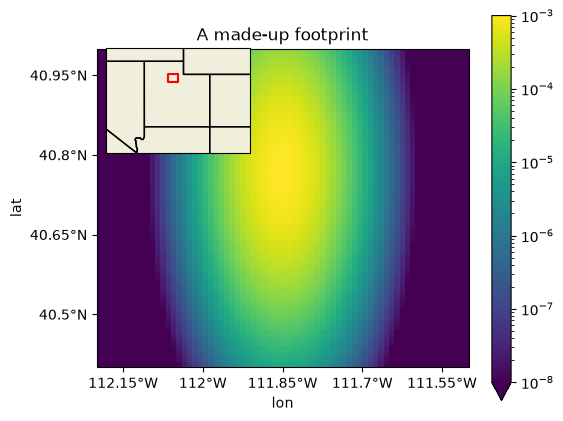
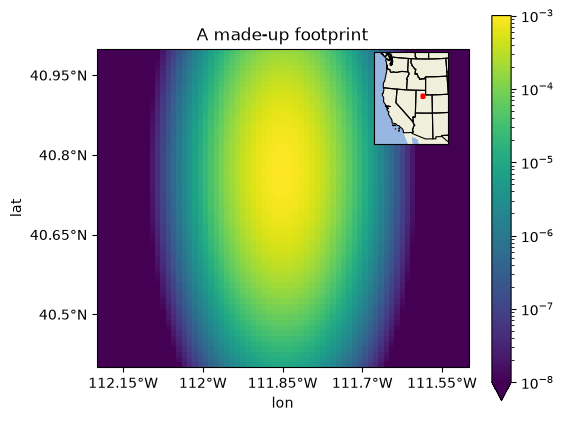
feat(geo)!: add_locator_map takes the main map's axes and places the inset by bounds (#218)
add_locator_map(ax, main_extent, main_extent_crs, ...) now adds an inset of the
main axes (Axes.inset_axes), placed by `bounds` as fractions of those axes. Its
defaults are the western United States in the upper right corner: locator_extent
(-125, -105, 30, 50), bounds (0.7, 0.7, 0.29, 0.29), an Albers equal-area
locator_crs centered at 111 W, color "red", linewidth 2, zorder 8. Land, ocean
and states are Natural Earth 50 m. The main extent is still an outline.

BREAKING CHANGE: add_locator_map takes the main map's axes, not the figure, and
`locator_rect` (figure fractions) is now `bounds` (fractions of the axes). A call
add_locator_map(fig, main_extent=e, main_extent_crs=c, locator_rect=r,
locator_extent=x, locator_crs=p, color=k, linewidth=w) becomes
add_locator_map(ax, e, c, locator_extent=x, bounds=b, locator_crs=p, color=k,
linewidth=w), with b the rectangle r as fractions of ax: ((r[0] - pos.x0) /
pos.width, (r[1] - pos.y0) / pos.height, r[2] / pos.width, r[3] / pos.height)
for pos = ax.get_position(). The locator map's features are 50 m, not 110 m.

Changed region(s): [[0.1812, 0.0926, 0.4529, 0.3705], [0.6643, 0.1235, 0.8153, 0.3705]]

diff --git a/tests/geo/test_geo.py b/tests/geo/test_geo.py
@@ -1132,23 +1132,127 @@ class TestPlotting:
         assert -115 < x0 <= -113 and -110 <= x1 < -108
         assert 39 < y0 <= 41 and 43 <= y1 < 45
 
-    def test_add_locator_map_outlines_box(self):
+
+class TestAddLocatorMap:
+    # The locator map is an inset of the main axes. Nothing here draws, so
+    # cartopy downloads no Natural Earth file.
+
+    MAIN_EXTENT = [-113, -110, 39, 42]
+
+    @pytest.fixture(autouse=True)
+    def _agg(self):
+        import matplotlib
+        import matplotlib.pyplot as plt
+
+        matplotlib.use("Agg")
+        yield
+        plt.close("all")
+
+    @pytest.fixture
+    def main_ax(self):
+        # A main map at a known place in the figure, with no aspect adjustment,
+        # so its position in the figure is the one given here
         import cartopy.crs as ccrs
         import matplotlib.pyplot as plt
 
         fig = plt.figure()
-        ax = geo.add_locator_map(
-            fig,
-            main_extent=[-113, -110, 39, 42],
-            main_extent_crs=ccrs.PlateCarree(),
-            locator_rect=(0.0, 0.0, 0.3, 0.3),
-            locator_extent=[-125, -100, 30, 50],
-            locator_crs=ccrs.PlateCarree(),
-            color="red",
-            linewidth=2,
+        ax = fig.add_axes((0.1, 0.2, 0.5, 0.4), projection=ccrs.PlateCarree())
+        ax.set_aspect("auto")
+        return ax
+
+    @staticmethod
+    def _bounds(inset):
+        # Where the inset sits, in figure fractions
+        return inset.get_axes_locator()(inset, None).bounds
+
+    def test_is_an_inset_of_the_axes_it_is_given(self, main_ax):
+        import cartopy.crs as ccrs
+
+        inset = geo.add_locator_map(main_ax, self.MAIN_EXTENT, ccrs.PlateCarree())
+        assert inset in main_ax.child_axes
+        assert inset.get_figure() is main_ax.get_figure()
+
+    def test_defaults_are_the_western_us_in_the_upper_right(self, main_ax):
+        import cartopy.crs as ccrs
+
+        inset = geo.add_locator_map(main_ax, self.MAIN_EXTENT, ccrs.PlateCarree())
+        # bounds (0.7, 0.7, 0.29, 0.29) of an axes at (0.1, 0.2) of size (0.5, 0.4)
+        np.testing.assert_allclose(
+            self._bounds(inset), (0.45, 0.48, 0.145, 0.116), atol=1e-12
         )
-        box_artist = ax.collections[-1]
-        # An outline: red edge, no fill
-        np.testing.assert_allclose(box_artist.get_edgecolor(), [[1, 0, 0, 1]])
+        assert inset.get_zorder() == 8
+        assert isinstance(inset.projection, ccrs.AlbersEqualArea)
+        assert inset.projection.proj4_params["lon_0"] == -111
+        x0, x1, y0, y1 = inset.get_extent(crs=ccrs.PlateCarree())
+        # The Albers view encloses the lon/lat box (-125, -105, 30, 50), and not by much
+        assert -129.5 < x0 <= -125 and -105 <= x1 < -103
+        assert 29 < y0 <= 30 and 50 <= y1 < 51
+
+    def test_bounds_are_fractions_of_the_main_axes(self, main_ax):
+        import cartopy.crs as ccrs
+
+        inset = geo.add_locator_map(
+            main_ax, self.MAIN_EXTENT, ccrs.PlateCarree(), bounds=(0.0, 0.5, 0.25, 0.4)
+        )
+        np.testing.assert_allclose(
+            self._bounds(inset), (0.1, 0.4, 0.125, 0.16), atol=1e-12
+        )
+        # ... so moving the main axes moves the inset with it
+        main_ax.set_position((0.3, 0.1, 0.4, 0.2))
+        np.testing.assert_allclose(
+            self._bounds(inset), (0.3, 0.2, 0.1, 0.08), atol=1e-12
+        )
+
+    def test_locator_extent_is_lonlat_in_any_projection(self, main_ax):
+        import cartopy.crs as ccrs
+
+        inset = geo.add_locator_map(
+            main_ax,
+            self.MAIN_EXTENT,
+            ccrs.PlateCarree(),
+            locator_extent=[-117, -106, 35, 43],
+            locator_crs=ccrs.PlateCarree(),
+        )
+        np.testing.assert_allclose(
+            inset.get_extent(crs=ccrs.PlateCarree()), [-117, -106, 35, 43]
+        )
+        assert isinstance(inset.projection, ccrs.PlateCarree)
+
+    def test_features_are_natural_earth_50m(self, main_ax):
+        import cartopy.crs as ccrs
+
+        inset = geo.add_locator_map(main_ax, self.MAIN_EXTENT, ccrs.PlateCarree())
+        # the last artist is the outline of the main map
+        features = [(a._feature.name, a._feature.scale) for a in inset.collections[:3]]
+        assert features == [
+            ("ocean", "50m"),
+            ("land", "50m"),
+            ("admin_1_states_provinces_lakes", "50m"),
+        ]
+
+    def test_outlines_the_main_extent_in_the_color_given(self, main_ax):
+        import cartopy.crs as ccrs
+
+        main_crs = ccrs.LambertConformal()
+        extent = [-1.0e5, 1.0e5, -2.0e5, 2.0e5]
+        inset = geo.add_locator_map(
+            main_ax, extent, main_crs, color="blue", linewidth=3
+        )
+        box_artist = inset.collections[-1]
+        # An outline: blue edge, no fill
+        np.testing.assert_allclose(box_artist.get_edgecolor(), [[0, 0, 1, 1]])
         face = np.asarray(box_artist.get_facecolor())
         assert face.size == 0 or np.all(face[:, 3] == 0)
+        assert box_artist.get_linewidth() == [3]
+        # The box is the main extent, in the main map's CRS
+        feature = box_artist._feature
+        assert feature.crs == main_crs
+        assert next(iter(feature.geometries())).bounds == (-1.0e5, -2.0e5, 1.0e5, 2.0e5)
+
+    def test_default_outline_is_red(self, main_ax):
+        import cartopy.crs as ccrs
+
+        inset = geo.add_locator_map(main_ax, self.MAIN_EXTENT, ccrs.PlateCarree())
+        box_artist = inset.collections[-1]
+        np.testing.assert_allclose(box_artist.get_edgecolor(), [[1, 0, 0, 1]])
+        assert box_artist.get_linewidth() == [2]

diff --git a/lair/geo.py b/lair/geo.py
@@ -578,82 +578,104 @@ def add_latlon_ticks(
 
 
 def add_locator_map(
-    fig: plt.Figure,
-    main_extent: list[float],
+    ax: GeoAxes,
+    main_extent: list[float] | tuple[float, float, float, float],
     main_extent_crs: ccrs.CRS,
-    locator_rect: tuple[float, float, float, float],
-    locator_extent: list[float],
-    locator_crs: ccrs.CRS,
-    color: str,
-    linewidth: int,
-    zorder: int | None = None,
-) -> plt.Axes:
+    locator_extent: list[float] | tuple[float, float, float, float] = (
+        -125,
+        -105,
+        30,
+        50,
+    ),
+    bounds: tuple[float, float, float, float] = (0.7, 0.7, 0.29, 0.29),
+    locator_crs: ccrs.Projection | None = None,
+    color: str = "red",
+    linewidth: float = 2,
+    zorder: int = 8,
+) -> GeoAxes:
     """
-    Add a small locator map to the figure that shows where the main map is.
+    Add a small locator map inside a map that shows where the main map is.
 
-    The locator map is a new axes with land, ocean and state boundaries, and
-    the extent of the main map drawn on it as an outline (no fill).
+    The locator map is an inset of ``ax``, placed by ``bounds`` as a fraction of
+    the main axes. It shows land, ocean and state boundaries (Natural Earth,
+    1:50 million) and the extent of the main map as an outline (no fill). The
+    defaults put a map of the western United States in the upper right corner.
 
     Parameters
     ----------
-    fig : matplotlib.figure.Figure
-        Figure to add the locator map to
+    ax : cartopy.mpl.geoaxes.GeoAxes
+        The main map's axes, to add the locator map to
     main_extent : list[float]
         Extent of the main map, ``[minx, maxx, miny, maxy]``, in
         ``main_extent_crs``
     main_extent_crs : ccrs.CRS
         CRS of the main extent
-    locator_rect : tuple[left, bottom, width, height]
-        Position of the locator map, in figure fractions (0 to 1) as for
-        ``Figure.add_axes``
-    locator_extent : list[float]
+    locator_extent : list[float], optional
         Extent of the locator map, ``[west, east, south, north]`` in degrees
-        of longitude and latitude
-    locator_crs : ccrs.CRS
-        Projection of the locator map
-    color : str
-        Color of the main-extent outline drawn on the locator map
-    linewidth : int
-        Line width of the main-extent outline
+        of longitude and latitude, by default the western United States,
+        ``(-125, -105, 30, 50)``
+    bounds : tuple[left, bottom, width, height], optional
+        Position of the locator map as fractions (0 to 1) of ``ax``, as for
+        ``Axes.inset_axes``, by default the upper right corner,
+        ``(0.7, 0.7, 0.29, 0.29)``
+    locator_crs : ccrs.Projection, optional
+        Projection of the locator map, by default an Albers equal-area
+        projection centered at 111 degrees west
+    color : str, optional
+        Color of the main-extent outline drawn on the locator map, by default
+        ``"red"``
+    linewidth : float, optional
+        Line width of the main-extent outline, by default 2
     zorder : int, optional
-        Zorder of the locator map, by default None
+        Zorder of the locator map, by default 8, above the main map's layers
 
     Returns
     -------
-    plt.Axes
+    cartopy.mpl.geoaxes.GeoAxes
         Axes object of the locator map
 
     See Also
     --------
     plot_grid : Draws a grid's cells on the main map.
+    add_latlon_ticks : Labels the main map's ticks in degrees.
+
+    Notes
+    -----
+    Cartopy downloads the Natural Earth features the first time it draws them
+    (the internet is needed), and caches them.
 
     Examples
     --------
-    A locator map of Utah and its neighbors in the top left of ``fig``, with
-    the main map's extent outlined in red, as :doc:`/examples/maps` draws it::
+    A locator map of the western United States in the upper right corner of
+    ``ax``, with the main map's extent outlined in red (:doc:`/examples/maps`
+    draws one)::
+
+        main_extent = [-112.2, -111.5, 40.4, 41.0]
+        add_locator_map(ax, main_extent, PC)
+
+    A locator map of Utah and its neighbors in the upper left corner::
 
         add_locator_map(
-            fig,
-            main_extent=[-112.2, -111.5, 40.4, 41.0],
-            main_extent_crs=PC,
-            locator_rect=(0.14, 0.58, 0.24, 0.26),
+            ax,
+            main_extent,
+            PC,
             locator_extent=[-117, -106, 35, 43],
+            bounds=(0.02, 0.7, 0.29, 0.29),
             locator_crs=PC,
-            color="red",
-            linewidth=1.5,
         )
     """
     import cartopy.feature as cfeature
     from shapely.geometry import box
 
-    locator_ax: GeoAxes = fig.add_axes(
-        locator_rect, projection=locator_crs, zorder=zorder
-    )
-    locator_ax.set_extent(locator_extent)
+    if locator_crs is None:
+        locator_crs = ccrs.AlbersEqualArea(central_longitude=-111)
 
-    locator_ax.add_feature(cfeature.LAND)
-    locator_ax.add_feature(cfeature.OCEAN)
-    locator_ax.add_feature(cfeature.STATES)
+    locator_ax: GeoAxes = ax.inset_axes(bounds, projection=locator_crs, zorder=zorder)
+    locator_ax.set_extent(locator_extent, crs=ccrs.PlateCarree())
+
+    locator_ax.add_feature(cfeature.OCEAN.with_scale("50m"))
+    locator_ax.add_feature(cfeature.LAND.with_scale("50m"))
+    locator_ax.add_feature(cfeature.STATES.with_scale("50m"), linewidth=0.8)
 
     main_poly = box(*extent2bbox(main_extent))
 

diff --git a/docs/examples/maps.rst b/docs/examples/maps.rst
@@ -23,7 +23,8 @@ inventory. Three rules come out of it:
    ``science`` extras (see :ref:`optional-dependencies`), EDGAR's files, and the
    internet the first time cartopy draws a feature. The output and the figures
    below were recorded from one run of this code on 2026-10-29, with lair
-   2026.12.11.dev9+g55e932b18.
+   2026.12.11.dev9+g55e932b18. The last figure, the made-up footprint with its
+   locator map, was drawn again on 2026-10-30.
 
 The data
 --------
@@ -185,11 +186,13 @@ west, around a point in the Salt Lake Valley:
    Out[7]: Frozen({'lon': 70, 'lat': 60})
 
 :func:`~lair.geo.add_locator_map` adds a locator map, a small map of where the
-main map is, in the corner of the figure. It takes the main map's extent and
-projection, the position of the locator map in the figure as
-``(left, bottom, width, height)``, fractions of the figure's size, its own
-extent and projection, and the color and width of the outline it draws around
-the main extent:
+main map is, inside the main map. It takes the main map's axes, its extent and
+the CRS of that extent. The locator map shows the western United States
+(Natural Earth land, ocean and state lines) in the upper right corner, and
+outlines the main extent in red. ``locator_extent`` sets its view, in degrees;
+``bounds`` its position, as fractions of the main axes (``Axes.inset_axes``'s
+rectangle, ``(left, bottom, width, height)``); ``locator_crs`` its projection
+(an Albers equal-area map by default); ``color`` and ``linewidth`` the outline:
 
 .. code-block:: ipython
 
@@ -198,20 +201,11 @@ the main extent:
       ...: ax.set_title("A made-up footprint")
       ...: main_extent = [-112.2, -111.5, 40.4, 41.0]
       ...: geo.add_latlon_ticks(ax, main_extent)
-      ...: geo.add_locator_map(
-      ...:     fig,
-      ...:     main_extent=main_extent,
-      ...:     main_extent_crs=ccrs.PlateCarree(),
-      ...:     locator_rect=(0.14, 0.58, 0.24, 0.26),
-      ...:     locator_extent=[-117, -106, 35, 43],
-      ...:     locator_crs=ccrs.PlateCarree(),
-      ...:     color="red",
-      ...:     linewidth=1.5,
-      ...: )
+      ...: geo.add_locator_map(ax, main_extent, ccrs.PlateCarree())
       ...: fig.savefig("maps_footprint.png", dpi=100, bbox_inches="tight")
 
 .. image:: maps_footprint.png
-   :alt: A made-up footprint over the Salt Lake Valley, a bright oval that fades outward on a log color scale, with a small map of Utah in the upper left corner and a red box on it marking the main map.
+   :alt: A made-up footprint over the Salt Lake Valley, a bright oval that fades outward on a log color scale, with a small map of the western United States in the upper right corner and a red dot on it marking the main map.
 
 Next
 ----
